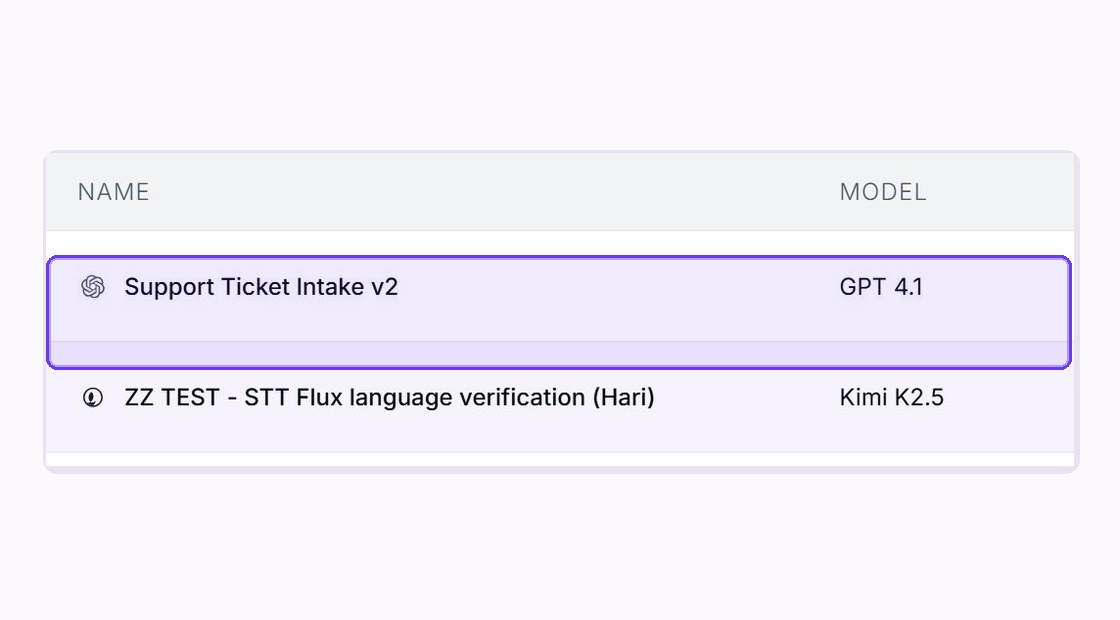
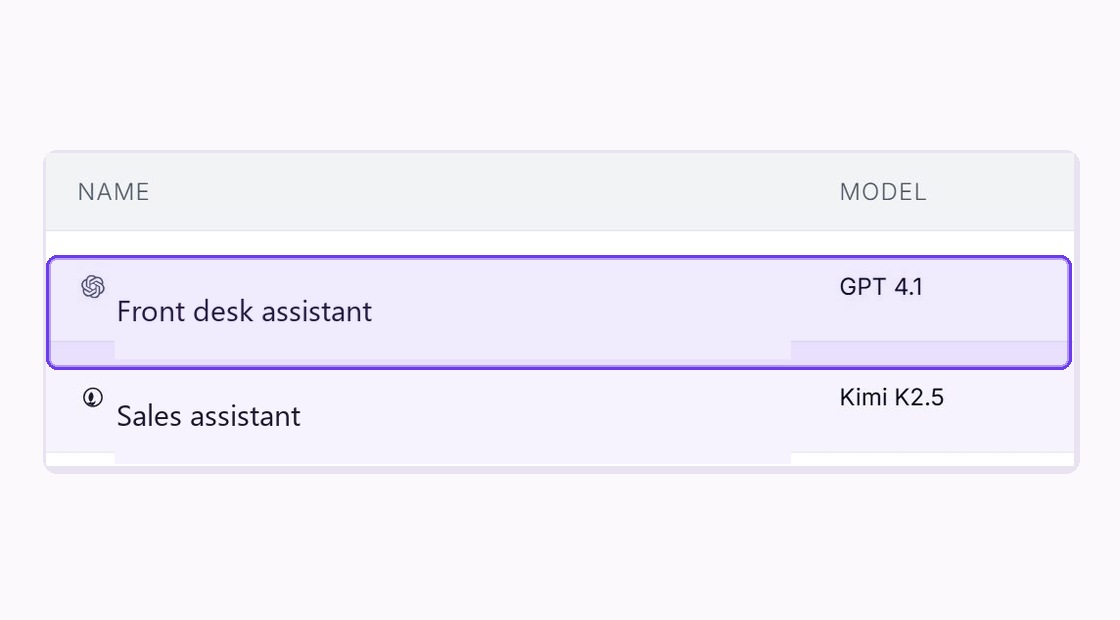
chore: neutralise account details before the page goes public
Step 2 showed our own internal assistant names, including a ZZ TEST entry with a
person's name in it. Replaced with Front desk assistant and Sales assistant:
only the labels changed, the screen is real.

Raw captures are gitignored - they are wider than the cropped versions and show
more of the account than a public page should.

Changed region(s): [[0.0938, 0.6129, 0.5938, 0.7048], [0.0938, 0.429, 0.3438, 0.521]]

diff --git a/README.md b/README.md
@@ -78,6 +78,13 @@ diagrams rather than as fake screenshots.
 
 Brand assets live in `assets/brand/`. The mark is cropped from the supplied cover.
 
+Placeholder names: the assistant names in step 2 were replaced with "Front desk assistant"
+and "Sales assistant". The real ones were internal test names on our own account and had
+no business on a customer-facing page. Only the labels changed; the screen is real.
+
+The raw captures in `assets/steps/raw/` are gitignored - they are wider than the cropped
+versions and show more of the account than a public page should.
+
 ## Opening the chat
 
 The "Something is broken in my account" chip opens the chat by clicking the widget's
